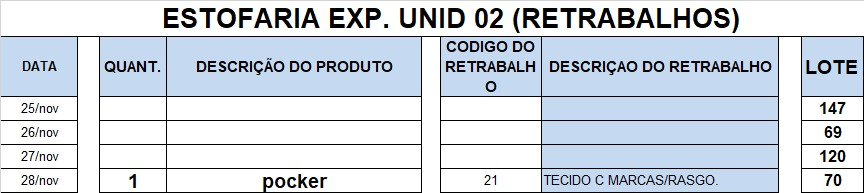
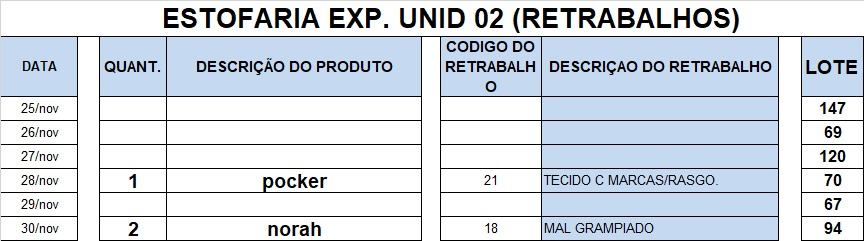
asdasdaads

diff --git a/back__incial.js b/back__incial.js
@@ -647,6 +647,8 @@ const unidades = {
             { data: "26/11/2024", captura: ["capturas/Unidade 2/Acabamento/2024/11 -Novembro/Tingidor/26.jpg", "capturas/Unidade 2/Acabamento/2024/11 -Novembro/Robô/26.jpg", "capturas/Unidade 2/Acabamento/2024/11 -Novembro/PéTras/26.jpg", "capturas/Unidade 2/Acabamento/2024/11 -Novembro/PéFrente/26.jpg", "capturas/Unidade 2/Acabamento/2024/11 -Novembro/Montagem/26.jpg", "capturas/Unidade 2/Acabamento/2024/11 -Novembro/LixaçãoFundoMaquininha/26.jpg", "capturas/Unidade 2/Acabamento/2024/11 -Novembro/LixaçãoFundoManual/26.jpg"] },
             { data: "27/11/2024", captura: ["capturas/Unidade 2/Acabamento/2024/11 -Novembro/Tingidor/27.jpg", "capturas/Unidade 2/Acabamento/2024/11 -Novembro/Robô/27.jpg", "capturas/Unidade 2/Acabamento/2024/11 -Novembro/PéTras/27.jpg", "capturas/Unidade 2/Acabamento/2024/11 -Novembro/PéFrente/27.jpg", "capturas/Unidade 2/Acabamento/2024/11 -Novembro/Montagem/27.jpg", "capturas/Unidade 2/Acabamento/2024/11 -Novembro/LixaçãoFundoMaquininha/27.jpg", "capturas/Unidade 2/Acabamento/2024/11 -Novembro/LixaçãoFundoManual/27.jpg"] },
             { data: "29/11/2024", captura: ["capturas/Unidade 2/Acabamento/2024/11 -Novembro/Tingidor/29.jpg", "capturas/Unidade 2/Acabamento/2024/11 -Novembro/Robô/29.jpg", "capturas/Unidade 2/Acabamento/2024/11 -Novembro/PéTras/29.jpg", "capturas/Unidade 2/Acabamento/2024/11 -Novembro/PéFrente/29.jpg", "capturas/Unidade 2/Acabamento/2024/11 -Novembro/Montagem/29.jpg", "capturas/Unidade 2/Acabamento/2024/11 -Novembro/LixaçãoFundoMaquininha/29.jpg", "capturas/Unidade 2/Acabamento/2024/11 -Novembro/LixaçãoFundoManual/29.jpg"] },
+            { data: "30/11/2024", captura: ["capturas/Unidade 2/Acabamento/2024/11 -Novembro/Tingidor/30.jpg", "capturas/Unidade 2/Acabamento/2024/11 -Novembro/Robô/30.jpg", "capturas/Unidade 2/Acabamento/2024/11 -Novembro/PéTras/30.jpg", "capturas/Unidade 2/Acabamento/2024/11 -Novembro/PéFrente/30.jpg", "capturas/Unidade 2/Acabamento/2024/11 -Novembro/Montagem/30.jpg", "capturas/Unidade 2/Acabamento/2024/11 -Novembro/LixaçãoFundoMaquininha/30.jpg", "capturas/Unidade 2/Acabamento/2024/11 -Novembro/LixaçãoFundoManual/30.jpg"] },
+
 
             // { data: "", captura: ["", "", "", "", "", "", ""] },
             // { data: "", captura: ["", "", "", "", "", "", ""] },
